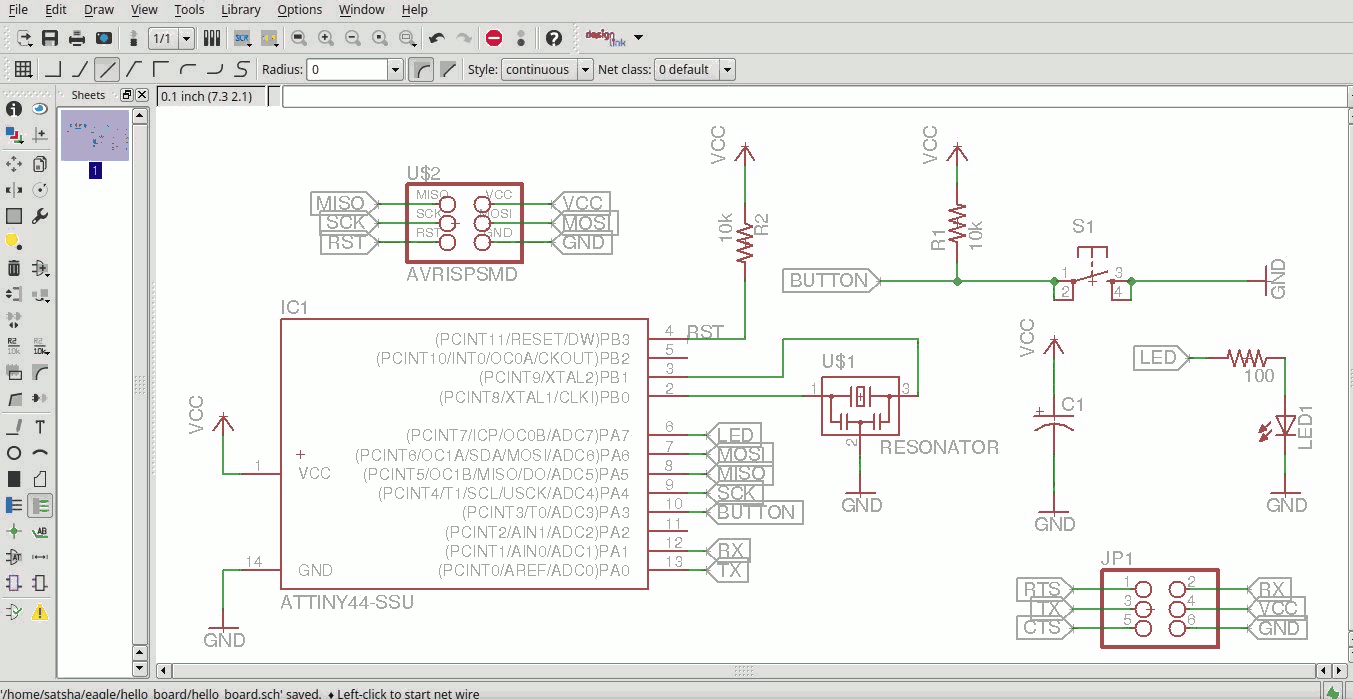
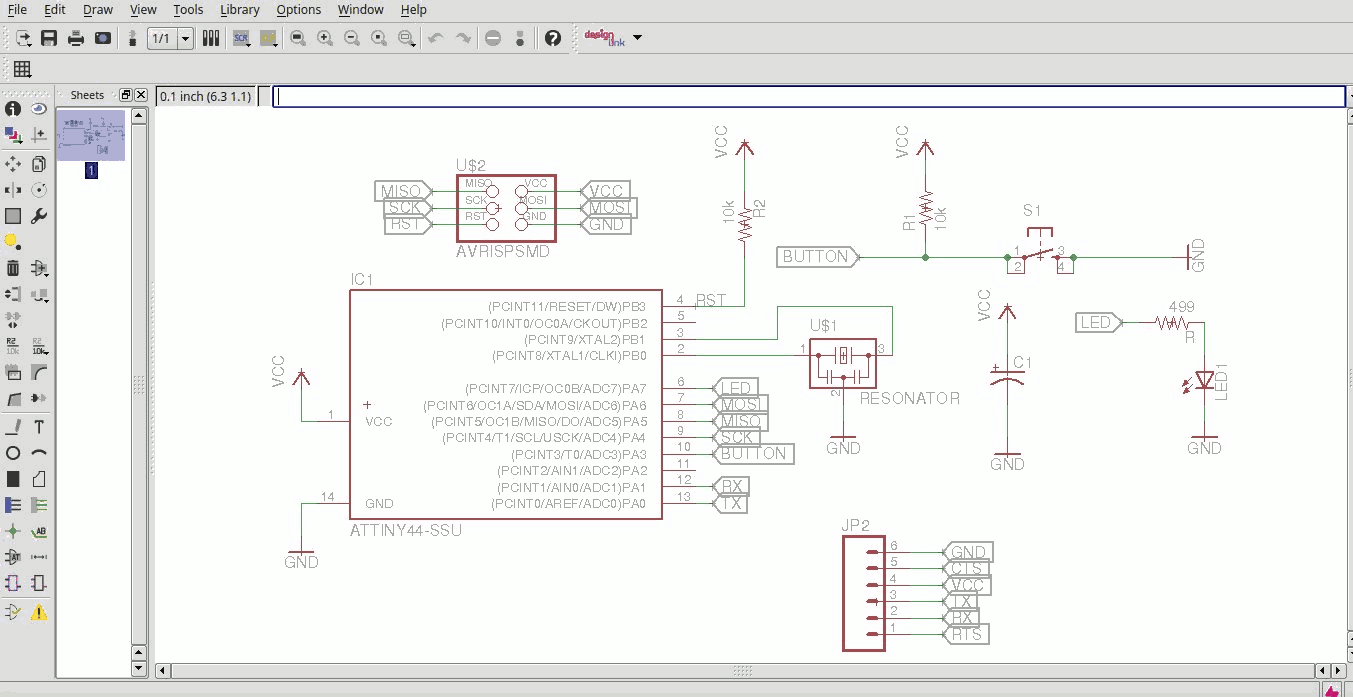
added week 4 files, updated week6

diff --git a/ingrassia.daniele/index.html b/ingrassia.daniele/index.html
@@ -352,8 +352,244 @@
 		<section id= "week4" class="row">
 			<div class="photo-grid">
 				<p>During this week we've talked about <span class="redones">electronics production</span>.</p>
-				<p>Unfortunately we hadn't the opportunity to accomplish with our weekly assignment because of the lacking of <span class="redones">CNC mill</span>. We'll try to complete the assignment as soon as the shipment of the CNC mill arrives.</p>
-				<p>By the way Massimo used meanwhile time to teach us <span class="redones">Python</span>. Even if I'm a IT engineer, I didn't know anything about this language except the Monty Python's name. As an experiment and to practice a bit of Python, I made a simple Python framework called <span class="redones">Internet of Arduinos</span>. From readme on my <a href="https://github.com/satshas/InternetOfArduinos"><span class="redones" style="font-weight: bold;">GitHub repo<span class="redones"></a>:</p>
+				
+				<p>To demonstrate what we've learned, we had to make a <span class="redones">FabISP</span>. A FabISP is a simple <span class="redones">In System Programmer</span> useful for us as an exrcise in soldering and as a starting point in reading a schematic but also to directly work with <span class="redones">smd</span> electronic components. We will use this FabISP to program the boards that we will make along the FabAcademy.</p>
+
+				<p>The first step in order to make this FabISP, is to print the board. Thanks to some experimentations made by our fellow student Enrico Bassi, we can now use a <span class="redones">laser cutter machine</span> to engrave and cut, in a more precisely way, <span class="redones">FR-1</span> sheets. Our laser cutter features two different kind of laser beams, <span class="redones">CO2 and fiber</span>. We used fiber laser to engrave and completely remove copper from the FR-1 surface, and C02 laser to cut the board. Here is a video showing fiber laser while engraving FR-1 copper surface:</p>
+
+				<iframe src="https://player.vimeo.com/video/122442831" width="700" height="450" frameborder="0" webkitallowfullscreen mozallowfullscreen allowfullscreen></iframe>
+				<p></p>
+				<p>However, fiber laser need to go through the engraved surface different times, to be sure that all the copper was removed. This happens also if we use almost all the laser power. In fact, whitin some results, is possible to observe some thin copper lines inside engraved part of the PCB. Here you can see a picture about this:</p>
+
+				<p><img src="img/week4/lines.jpg"></p>
+
+				<p>Once a well-done board was ready, I started collecting and organizing components to be soldered:</p>
+				<p><img src="img/week4/components.jpg"></p>
+
+				<p>After listening some soldering suggestions from Massimo, I started to solder the components on the FabISP board. The first board never made to work, I think because it was my first smd soldering work. So I printed another board and started over again. This second attempt was successful. Here you see can the final result and the console output of the <span class="redones">programming steps</span>:</p>
+				<p><img src="img/week4/FabISP.jpg"></p>
+
+
+				<p><pre class="prettyprint lang-bash" style="color: white;">
+satsha@satsha-mint:~/tmp/fabISP_mac.0.8.2_firmware > make clean
+rm -f main.hex main.lst main.obj main.cof main.list main.map main.eep.hex main.elf *.o usbdrv/*.o main.s usbdrv/oddebug.s usbdrv/usbdrv.s
+satsha@satsha-mint:~/tmp/fabISP_mac.0.8.2_firmware > make hex
+avr-gcc -Wall -Os -DF_CPU=20000000       -Iusbdrv -I. -DDEBUG_LEVEL=0 -mmcu=attiny44 -c usbdrv/usbdrv.c -o usbdrv/usbdrv.o
+avr-gcc -Wall -Os -DF_CPU=20000000       -Iusbdrv -I. -DDEBUG_LEVEL=0 -mmcu=attiny44 -x assembler-with-cpp -c usbdrv/usbdrvasm.S -o usbdrv/usbdrvasm.o
+avr-gcc -Wall -Os -DF_CPU=20000000       -Iusbdrv -I. -DDEBUG_LEVEL=0 -mmcu=attiny44 -c usbdrv/oddebug.c -o usbdrv/oddebug.o
+avr-gcc -Wall -Os -DF_CPU=20000000       -Iusbdrv -I. -DDEBUG_LEVEL=0 -mmcu=attiny44 -c main.c -o main.o
+main.c:88:13: warning: always_inline function might not be inlinable [-Wattributes]
+ static void delay ( void )
+             ^
+avr-gcc -Wall -Os -DF_CPU=20000000       -Iusbdrv -I. -DDEBUG_LEVEL=0 -mmcu=attiny44 -o main.elf usbdrv/usbdrv.o usbdrv/usbdrvasm.o usbdrv/oddebug.o main.o
+rm -f main.hex main.eep.hex
+avr-objcopy -j .text -j .data -O ihex main.elf main.hex
+avr-size main.hex
+   text    data     bss     dec     hex filename
+      0    2002       0    2002     7d2 main.hex
+satsha@satsha-mint:~/tmp/fabISP_mac.0.8.2_firmware >  sudo make fuse
+
+avrdude -c stk500v1 -P /dev/ttyACM0 -b19200 -p attiny44 -U hfuse:w:0xDF:m -U lfuse:w:0xFF:m
+
+
+avrdude: AVR device initialized and ready to accept instructions
+
+
+Reading | ################################################## | 100% 0.05s
+
+
+avrdude: Device signature = 0x1e9207
+
+avrdude: reading input file "0xDF"
+
+avrdude: writing hfuse (1 bytes):
+
+
+Writing | ################################################## | 100% 0.02s
+
+
+avrdude: 1 bytes of hfuse written
+
+avrdude: verifying hfuse memory against 0xDF:
+
+avrdude: load data hfuse data from input file 0xDF:
+
+avrdude: input file 0xDF contains 1 bytes
+
+avrdude: reading on-chip hfuse data:
+
+
+Reading | ################################################## | 100% 0.02s
+
+
+avrdude: verifying ...
+
+avrdude: 1 bytes of hfuse verified
+
+avrdude: reading input file "0xFF"
+
+avrdude: writing lfuse (1 bytes):
+
+
+Writing | ################################################## | 100% 0.02s
+
+
+avrdude: 1 bytes of lfuse written
+
+avrdude: verifying lfuse memory against 0xFF:
+
+avrdude: load data lfuse data from input file 0xFF:
+
+avrdude: input file 0xFF contains 1 bytes
+
+avrdude: reading on-chip lfuse data:
+
+
+Reading | ################################################## | 100% 0.02s
+
+
+avrdude: verifying ...
+
+avrdude: 1 bytes of lfuse verified
+
+
+avrdude: safemode: Fuses OK (E:FF, H:DF, L:FF)
+
+
+avrdude done.  Thank you.
+
+
+satsha@satsha-mint:~/tmp/fabISP_mac.0.8.2_firmware >  sudo make program
+
+avrdude -c stk500v1 -P /dev/ttyACM0 -b19200 -p attiny44 -U flash:w:main.hex:i
+
+
+avrdude: AVR device initialized and ready to accept instructions
+
+
+Reading | ################################################## | 100% 0.05s
+
+
+avrdude: Device signature = 0x1e9207
+
+avrdude: NOTE: "flash" memory has been specified, an erase cycle will be performed
+
+         To disable this feature, specify the -D option.
+
+avrdude: erasing chip
+
+avrdude: reading input file "main.hex"
+
+avrdude: writing flash (1988 bytes):
+
+
+Writing | ################################################## | 100% 3.40s
+
+
+avrdude: 1988 bytes of flash written
+
+avrdude: verifying flash memory against main.hex:
+
+avrdude: load data flash data from input file main.hex:
+
+avrdude: input file main.hex contains 1988 bytes
+
+avrdude: reading on-chip flash data:
+
+
+Reading | ################################################## | 100% 2.26s
+
+
+avrdude: verifying ...
+
+avrdude: 1988 bytes of flash verified
+
+
+avrdude: safemode: Fuses OK (E:FF, H:DF, L:FF)
+
+
+avrdude done.  Thank you.
+
+
+avrdude -c stk500v1 -P /dev/ttyACM0 -b19200 -p attiny44 -U hfuse:w:0xDF:m -U lfuse:w:0xFF:m
+
+
+avrdude: AVR device initialized and ready to accept instructions
+
+
+Reading | ################################################## | 100% 0.05s
+
+
+avrdude: Device signature = 0x1e9207
+
+avrdude: reading input file "0xDF"
+
+avrdude: writing hfuse (1 bytes):
+
+
+Writing | ################################################## | 100% 0.02s
+
+
+avrdude: 1 bytes of hfuse written
+
+avrdude: verifying hfuse memory against 0xDF:
+
+avrdude: load data hfuse data from input file 0xDF:
+
+avrdude: input file 0xDF contains 1 bytes
+
+avrdude: reading on-chip hfuse data:
+
+
+Reading | ################################################## | 100% 0.02s
+
+
+avrdude: verifying ...
+
+avrdude: 1 bytes of hfuse verified
+
+avrdude: reading input file "0xFF"
+
+avrdude: writing lfuse (1 bytes):
+
+
+Writing | ################################################## | 100% 0.02s
+
+
+avrdude: 1 bytes of lfuse written
+
+avrdude: verifying lfuse memory against 0xFF:
+
+avrdude: load data lfuse data from input file 0xFF:
+
+avrdude: input file 0xFF contains 1 bytes
+
+avrdude: reading on-chip lfuse data:
+
+
+Reading | ################################################## | 100% 0.02s
+
+
+avrdude: verifying ...
+
+avrdude: 1 bytes of lfuse verified
+
+
+avrdude: safemode: Fuses OK (E:FF, H:DF, L:FF)
+
+
+avrdude done.  Thank you.
+
+
+				</pre></p>
+				
+				<p><br>As you can see from console output, I used an <span class="redones">Arduino as ISP</span> to program the <span class="redones">Attiny44</span>. In order to do this you have to use the following line in Makefile:</p>
+				<p><pre class="prettyprint lang-bash" style="color: white;">AVRDUDE = avrdude -c stk500v1 -P /dev/ttyACM0 -b19200 -p $(DEVICE)</pre></p>
+
+				<p>Here is a picture of the Arduino connected with FabISP:</p>
+				<p><img src="img/week4/arduino_fabisp.jpg"></p>
+
+				<p>As we couldn't accomplish in time with this weekly assignment because of the lacking of <span class="redones">CNC mill</span>, Massimo used meanwhile time to teach us <span class="redones">Python</span>. Even if I'm a IT engineer, I didn't know anything about this language except the Monty Python's name. As an experiment and to practice a bit of Python, I made a simple Python framework called <span class="redones">Internet of Arduinos</span>. From readme on my <a href="https://github.com/satshas/InternetOfArduinos"><span class="redones" style="font-weight: bold;">GitHub repo<span class="redones"></a>:</p>
 				<p>"Internet of Arduinos (<span class="redones">IoA</span> for friends :) is an Internet of Things Python framework where Things are Arduinos, or other MCU controlled devices. It's in a very early development stage, for now it supports basically HTTP(S) REST to Serial communication."</p>
 				<p>Maybe this framework will be useful to us in order to simplify the communication between internet connected devices and our MCUs. Here is a video with an <span class="redones">example of use:</p>
 				<p><iframe src="//player.vimeo.com/video/120672822" width="700" height="450" frameborder="0" webkitallowfullscreen mozallowfullscreen allowfullscreen></iframe> </p>
@@ -429,7 +665,7 @@
 				<ul class="lists">
 				<li>The components needed are:</li>
 				<li><span class="redones">6-pin programming header</span> to program the board</li>
-				<li><span class="redones">Attiny44A</span> the microcontroller</li>
+				<li><span class="redones">Attiny44A</span> microcontroller</li>
     			<li><span class="redones">FTDI header</span> for power supply and computer connection</li>
     			<li><span class="redones">20 MHz Resonator</span> external crystal clock generator, Attiny44A can work also @20Mhz</li>
     			<li><span class="redones">Capacitor</span> for a better quality input current</li>
@@ -446,36 +682,28 @@
 				<p><img src="img/week6/forward_voltage.png" alt=""></p>
 				<p>Here you can see about my exercise on calculating it: </p>
 				<p><img src="img/week6/led_resistance.jpg" alt=""></p>
-				<p>Finally here is the complete schematic, with all components connected and the value of the led's resistor assigned to <span class="redones">100 Ohm</span> to avoid be right on the limit valoue of 80 Ohm:</p>
+				<p>Finally here is the complete schematic, with all components connected and the value of the led's resistor assigned to <span class="redones">499 Ohm</span> to avoid be right on the limit value of 80 Ohm:</p>
 				<p><img style="width:90%" src="img/week6/completed_schema.png" alt=""></p>
 
-				<p>Going to the board editor, it first showed a confused group of components, connected by <span class="redones">yellow wires</span>. These wires let us know what connections there are between components, but they aren't the ones that we need to print the PCB. All of these lines have to be transformed in <span class="redones">traces</span>, in order to represent the real PCB to be printed. In this case we have to made a <span class="redones">single layer</span> PCB, so all the traces must be on the same surface.</p>
-
-				<p><img style="width:90%" src="img/week6/initial_board.png" alt=""></p>
-				<p>The first thing to do was to put all the components inside the printed area of the limited versio of Eagle:</p>
-				<p><img style="width:90%" src="img/week6/board_inside.png" alt=""></p>
-				<p>As first attempt to order traces, I tried the <span class="redones">autoroute</span> function. This function try to automatically find te best path for each trace:</p>
+				<p>Going to the board editor, it first showed a confused group of components, connected by <span class="redones">yellow wires</span>. These wires let us know what connections there are between components, but they aren't the ones that we need to print the PCB. All of these lines have to be transformed in <span class="redones">traces</span>, in order to represent the real PCB to be printed. In this case we have to made a <span class="redones">single layer</span> PCB, so all the traces must be on the same surface. The first thing to do was to put all the components inside the printed area of the limited version of Eagle. As first attempt to order traces, I tried the <span class="redones">autoroute</span> function. This function try to automatically find the best path for each trace:</p>
 				<p><img style="width:90%" src="img/week6/first_autoroute.png" alt=""></p>
-				<p>As you can see in the followig picture, the autoroute function is not perfect, in fact some of the traces were not made:</p>
+				<p>As you can see in the following picture, the autoroute function is not perfect, in fact some of the traces were not made:</p>
 				<p><img style="width:90%" src="img/week6/after_first_autoroute.png" alt=""></p>
-				<p>After some attemps with changing components' displacement, the autoroute made a nice shot, with 100% of the traces ok. Still, the result was not so good, as many traces was too near each other or oblique:</p>
-				<p><img style="width:90%" src="img/week6/route_ok.png" alt=""></p>
 				<p>So, with the tutorial board in mind, I tried to replicate it via <span class="redones">manual traces editing</span>. Even if I made some minor changes at the components' displacement, the result was much pretty the same:</p>
 				<p><img style="width:90%" src="img/week6/hello_board_1.png" alt=""></p>
 				<p>To be ready to print the circuit, I selected only the first layer and then exported it with <span class="redones">*.png</span> image format, with settings of monochrome and 500DPI of resolution:</p>
 				<p><img style="width:90%" src="img/week6/hello_board_1_layer.png" alt=""></p>
 				<p><img style="width:90%" src="img/week6/hello_board_1_export.png" alt=""></p>
-				<p>After that I imported the png file in Gimp in order to crop the unnecessary part of the image, and to add some boarders and text. Here are the final results of board and interior:</p>
-				<p><img src="img/week6/first_board_traces.png" alt=""></p>
-				<p><img src="img/week6/first_board_interior.png" alt=""></p>
-				<p>Because I was not satisfied on copy the tutorial's board, I tried to make another one. To this this I redesigned manually all the trace's paths. The following pictures shows the final result of my hello-board <span class="redones">personal version</span>.</p>
+				<p>After that I imported the png file in <span class="redones">Inkscape</span> in order to add some text, and a red square, useful to identify the layer that will cut the board. Here is the final result:</p>
+				<p><img src="img/week6/first_board_traces.jpg" alt=""></p>
+				<p>Because I was not satisfied on copy the tutorial's board, I tried to make another one. To do this I redesigned manually all the trace's paths. The following pictures show the final result of my hello-board <span class="redones">personal version</span>.</p>
 				<p><img style="width:90%" src="img/week6/hello_board_2.png" alt=""></p>
 				<p><img style="width:90%" src="img/week6/hello_board_2_layer.png" alt=""></p>
 
-				<p><img src="img/week6/satshas_board_traces.png" alt=""></p>
-				<p><img src="img/week6/satshas_board_interior.png" alt=""></p>
+				<p><img src="img/week6/satshas_board_traces.jpg" alt=""></p>
 
-				<p>Here you can download the two Eagle projects I made this week: <a href="drawings/week6/hello_board_1.rar"><span class="redones" style="font-weight: bold;">hello-board<span class="redones"></a>, <a href="drawings/week6/hello_board_2.rar"><span class="redones" style="font-weight: bold;">personal-hello-board<span class="redones"></a></p>
+				<p>Here you can find the two Eagle projects I made this week: <a href="drawings/week6/hello_board_1.rar"><span class="redones" style="font-weight: bold;">hello-board<span class="redones"></a>, <a href="drawings/week6/hello_board_2.rar"><span class="redones" style="font-weight: bold;">personal-hello-board<span class="redones"></a>.</p>
+				<p>And here are olso the *.svg files: <a href="drawings/week6/hello_board_1_svg.rar"><span class="redones" style="font-weight: bold;">hello-board<span class="redones"></a>, <a href="drawings/week6/hello_board_2_svg.rar"><span class="redones" style="font-weight: bold;">personal-hello-board<span class="redones"></a>.</p>
 
 			</div>
 		</section>
@@ -606,16 +834,15 @@
 
 				<a href="javascript:ReplaceContentInContainer('middle',document.getElementById('week3').innerHTML,'week3')" rel="lightbox" class="col-2"><span class="redones" style="font-weight: bold;">3. computer-controlled cutting</span></a>
 
-				<a href="javascript:ReplaceContentInContainer('middle',document.getElementById('week4').innerHTML,'week4')" rel="lightbox" class="col-2"><span class="col-2" style="font-weight: bold;color: orange;">4. electronics production</span></a>
+				<a href="javascript:ReplaceContentInContainer('middle',document.getElementById('week4').innerHTML,'week4')" rel="lightbox" class="col-2"><span class="redones" style="font-weight: bold;">4. electronics production</span></a>
 
-				<a href="javascript:ReplaceContentInContainer('middle',document.getElementById('week5').innerHTML,'week5')" rel="lightbox" rel="lightbox" class="col-2"><span class="redones" style="font-weight: bold;">5. 3D scanning and printing</span></a>
+				<a href="javascript:ReplaceContentInContainer('middle',document.getElementById('week5').innerHTML,'week5')" rel="lightbox" class="col-2"><span class="redones" style="font-weight: bold;">5. 3D scanning and printing</span></a>
 				
 
-				<a href="javascript:ReplaceContentInContainer('middle',document.getElementById('week6').innerHTML,'week6')" rel="lightbox" rel="lightbox" class="col-2"><span class="redones" style="font-weight: bold;">6. electronics design</span></a>
+				<a href="javascript:ReplaceContentInContainer('middle',document.getElementById('week6').innerHTML,'week6')" rel="lightbox" class="col-2"><span class="redones" style="font-weight: bold;">6. electronics design</span></a>
 				
 
-				<!--<a href="javascript:ReplaceContentInContainer('middle',document.getElementById('week7').innerHTML,'week7')" rel="lightbox" rel="lightbox" class="col-2">embedded programming</a>-->
-				<a class="col-2">7. embedded programming</a>
+				<a href="javascript:ReplaceContentInContainer('middle',document.getElementById('week7').innerHTML,'week7')" rel="lightbox" class="col-2" style="font-weight: bold;"><span class="redones">7. embedded programming</span></a>
 
 				<!--<a href="javascript:ReplaceContentInContainer('middle',document.getElementById('week8').innerHTML,'week8')" rel="lightbox" rel="lightbox" class="col-2">computer-controlled machining</a>-->
 				<a class="col-2">8. computer-controlled machining</a>
